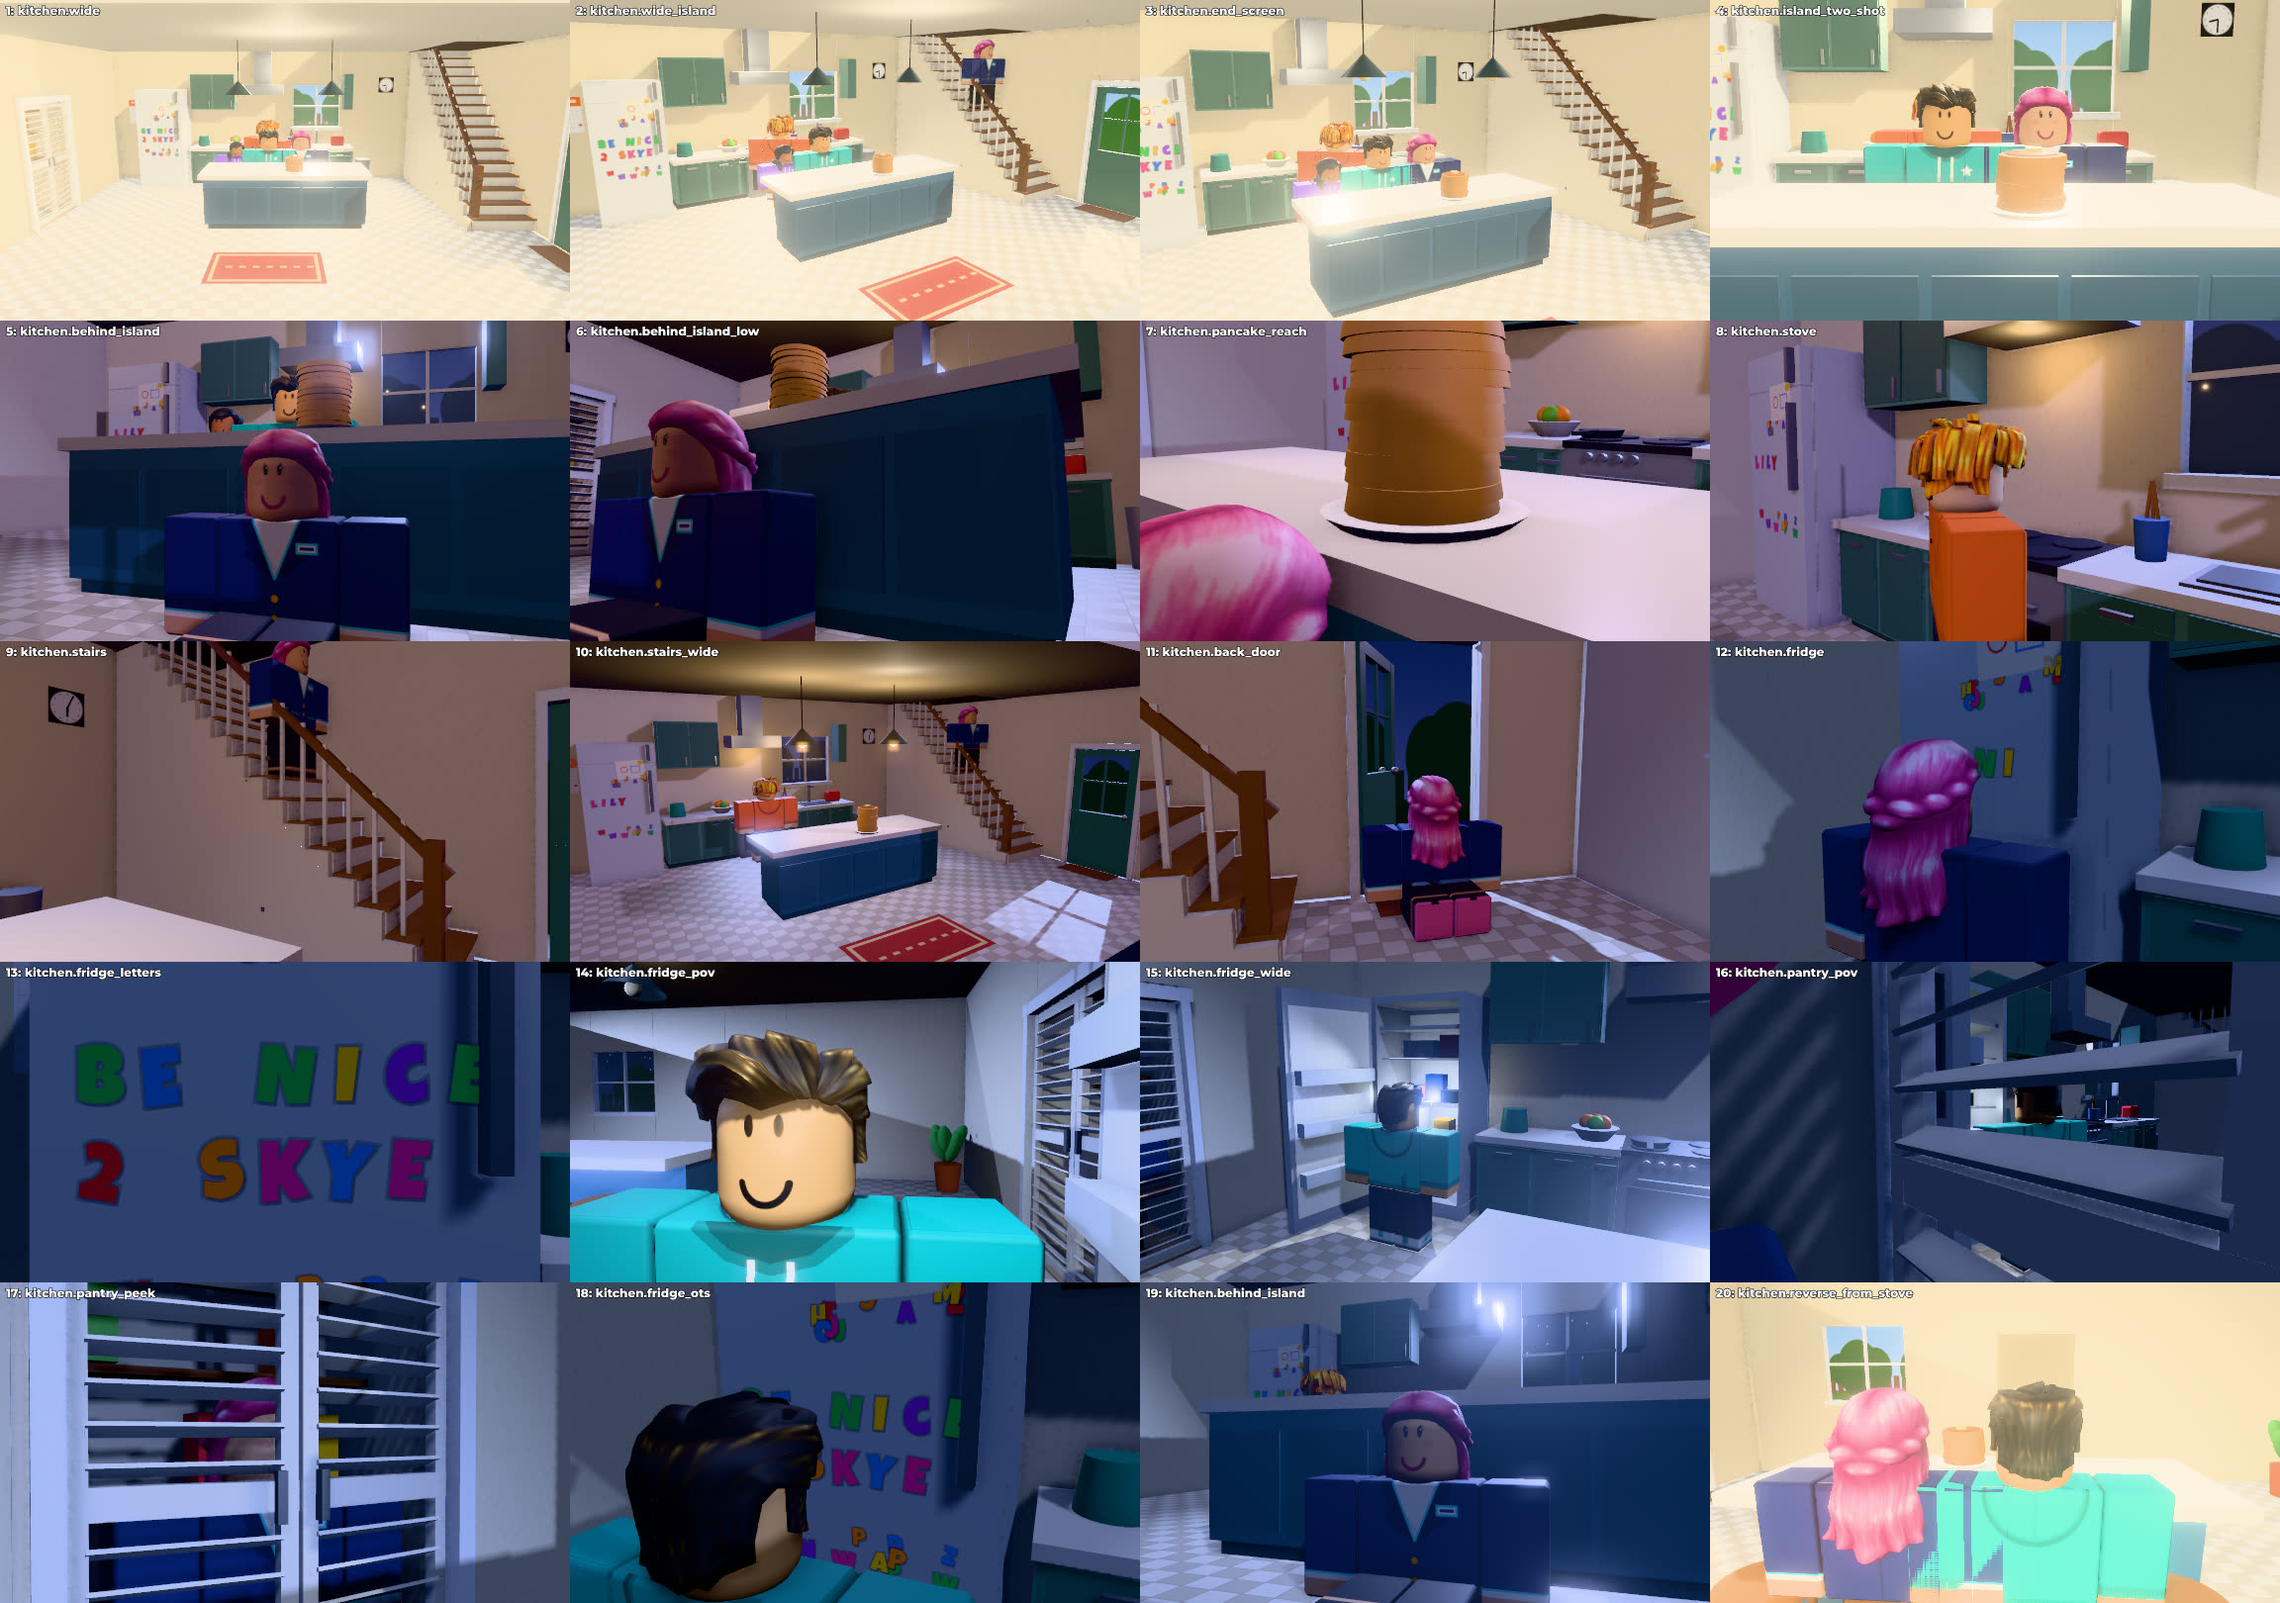
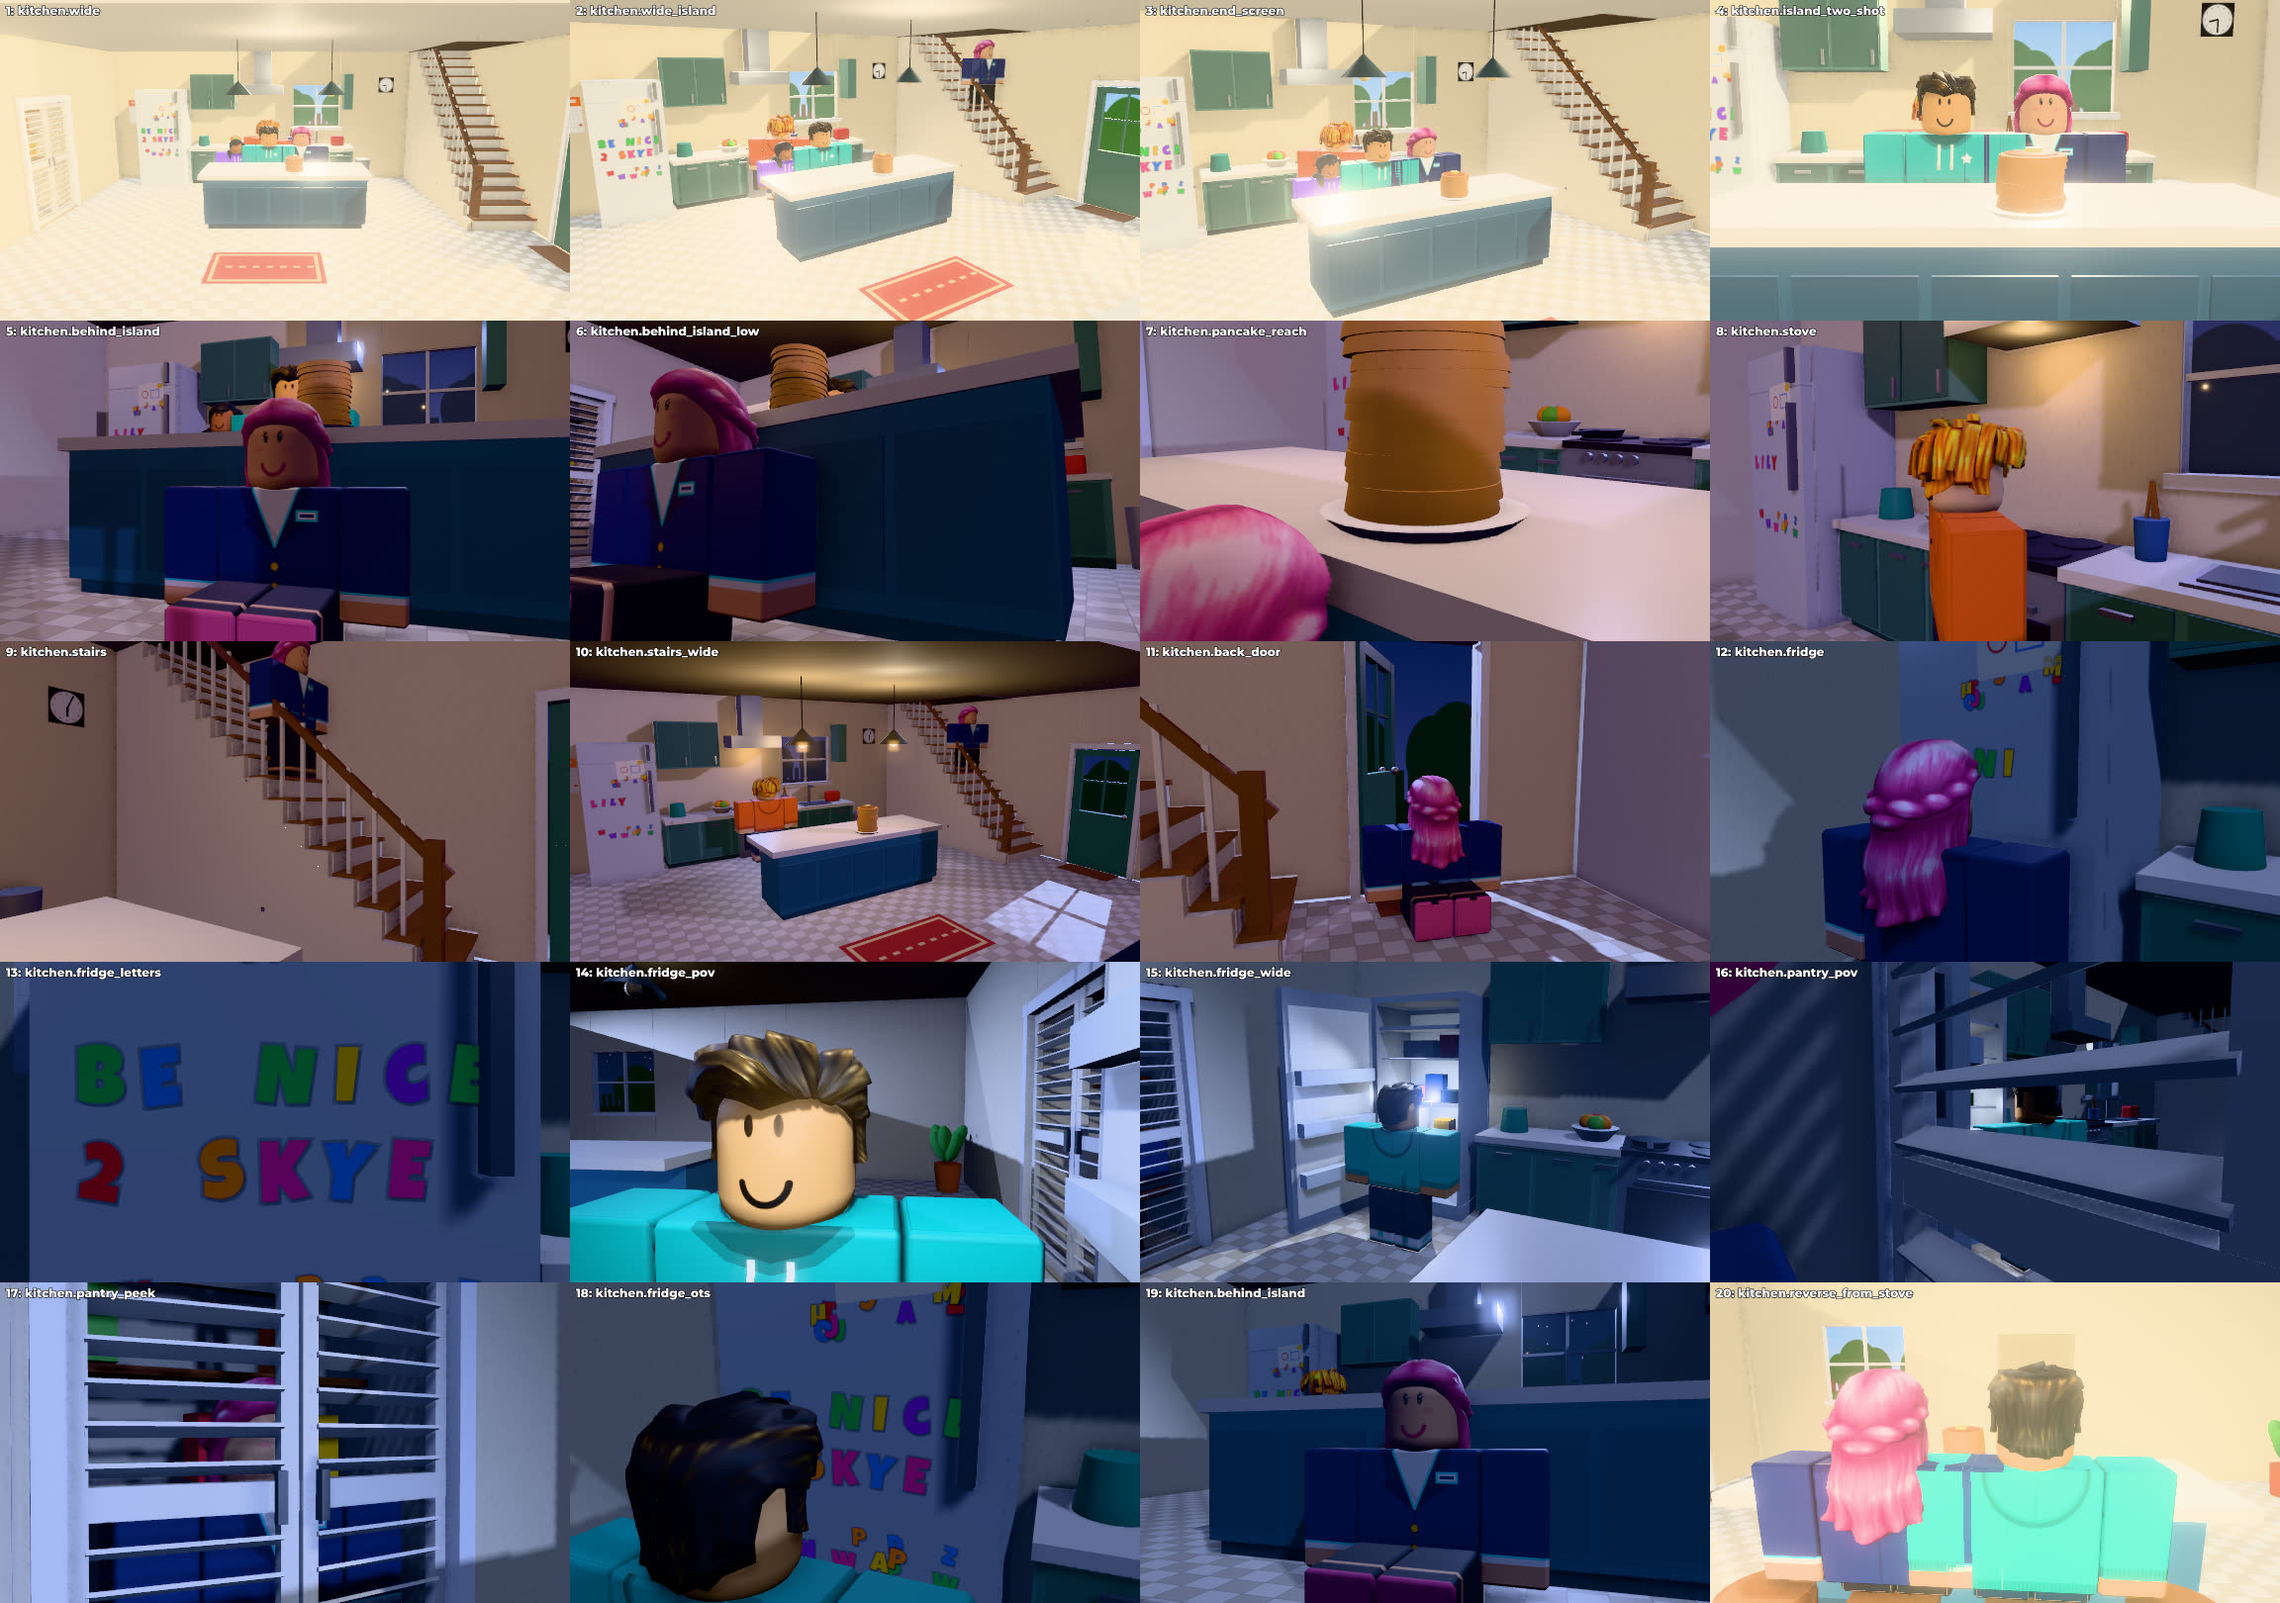
kit-sets-c: sit marks follow kit-cast seatY, walls/slats noCamBlock for setCam, safe proxy lights, matte island top

diff --git a/roblox-shorts-studio/projects/i-secretly-lived-in-my-enemys-house/web/kit/sets/kitchen.js b/roblox-shorts-studio/projects/i-secretly-lived-in-my-enemys-house/web/kit/sets/kitchen.js
@@ -12,7 +12,7 @@ import { THREE, V, std, glow, box, rbox, cyl, picture, fontText, floorTexture, w
 
 export const OFFSET = V(900, 0, 0);
 const H = 12;                         // ceiling
-const ISLAND_TOP = 3.6, STOOL_TOP = 2.4, COUNTER_TOP = 3.4;
+const ISLAND_TOP = 3.6, STOOL_TOP = 2.2, COUNTER_TOP = 3.4;
 // stairs: 16 steps, rise 0.75, run 0.8; step i (1..16) top at y 0.75 i over z 2.0-0.8 i .. 2.0-0.8 (i-1); x 12..16
 const STEP_RISE = 0.75, STEP_RUN = 0.8, STAIR_Z0 = 2.0, STAIR_X = 14;
 export function stairFootY(z) { const i = Math.ceil((STAIR_Z0 - z) / STEP_RUN); return Math.max(0, Math.min(16, i)) * STEP_RISE; }
@@ -30,7 +30,7 @@ export function build(scene) {
   const tileM = std('#ffffff', { map: floorTexture('tile', [6, 5]), roughness: 0.55 });
   const cabM = std('#6f9a8d', { roughness: 0.55 });        // sage cabinets
   const cabDark = std('#557a6f', { roughness: 0.55 });
-  const topM = std('#efeae2', { roughness: 0.3 });           // light stone counter top
+  const topM = std('#efeae2', { roughness: 0.6 });           // light stone counter top
   const woodM = std('#a8723f', { roughness: 0.6 });
   const woodDark = std('#7a4f2a', { roughness: 0.65 });
   const steelM = std('#c9ced4', { roughness: 0.3, metalness: 0.6 });
@@ -89,7 +89,7 @@ export function build(scene) {
     day: outsideTex('#7cc0ff', '#dff1ff', garden(false)),
   };
   const outM = new THREE.MeshBasicMaterial({ map: OUT.night, fog: false });
-  const outPlane = (w, h, x, y, z, ry) => { const p = new THREE.Mesh(new THREE.PlaneGeometry(w, h), outM); p.position.set(x, y, z); p.rotation.y = ry; group.add(p); return p; };
+  const outPlane = (w, h, x, y, z, ry) => { const p = new THREE.Mesh(new THREE.PlaneGeometry(w, h), outM); p.userData.noCamBlock = true; p.position.set(x, y, z); p.rotation.y = ry; group.add(p); return p; };
   outPlane(14, 9, 3, 7, -15, 0);                  // behind the sink window
   outPlane(16, 12, 22, 5, 6, -Math.PI / 2);       // behind the back door
   front.add(outPlane(14, 9, 24.5, 7, 3.75, Math.PI));   // behind the front window (hides with the front wall)
@@ -307,7 +307,7 @@ export function build(scene) {
     const d = new THREE.Group(); d.position.z = dz; piv.add(d);
     box(0.18, 7.9, 0.22, slatM, 0, 4.0, -1.13, d); box(0.18, 7.9, 0.22, slatM, 0, 4.0, 1.13, d);
     box(0.18, 0.3, 2.5, slatM, 0, 0.2, 0, d); box(0.18, 0.3, 2.5, slatM, 0, 7.8, 0, d); box(0.18, 0.35, 2.5, slatM, 0, 4.0, 0, d);
-    for (let y = 0.55; y < 7.6; y += 0.42) { if (Math.abs(y - 4.0) < 0.3) continue; const s = box(0.05, 0.3, 2.1, slatM, 0, y, 0, d); s.rotation.z = -1.15; }
+    for (let y = 0.55; y < 7.6; y += 0.42) { if (Math.abs(y - 4.0) < 0.3) continue; const s = box(0.05, 0.3, 2.1, slatM, 0, y, 0, d); s.rotation.z = -1.15; s.userData.noCamBlock = true; }
     box(0.12, 0.6, 0.12, handleM, 0.15, 4.0, side < 0 ? 1.0 : -1.0, d);
     pantryDoors.push({ piv, side });
   }
@@ -382,7 +382,7 @@ export function build(scene) {
 
   // ---------------------------------------------------------------- marks (heading: forward = (sin h, 0, cos h))
   const PI = Math.PI;
-  const sit = (x, z, h = 0) => M(x, STOOL_TOP - 2, z, h, { sit: true, seatTop: STOOL_TOP + OFFSET.y });
+  const sit = (x, z, h = 0) => M(x, STOOL_TOP - 1.5, z, h, { sit: true, seatTop: STOOL_TOP + OFFSET.y });
   const marks = {
     fridge: M(-11, 0, -7.4, PI, { note: 'facing the fridge door (letters), arm length from it' }),
     fridge_open: M(-10.2, 0, -6.6, PI, { note: 'in the open fridge light, facing in; the door swings to his left' }),

diff --git a/roblox-shorts-studio/projects/i-secretly-lived-in-my-enemys-house/web/kit/sets/common_c.js b/roblox-shorts-studio/projects/i-secretly-lived-in-my-enemys-house/web/kit/sets/common_c.js
@@ -100,17 +100,19 @@ function registry(scene, margin = 0.4) {
   }
   return reg;
 }
-export function autoHideWalls(scene, walls) { registry(scene).walls.push(...walls); }
+// Walls never block the kit cameras' clearShot (they hide whenever the camera is outside them).
+export function autoHideWalls(scene, walls) { for (const w of walls) w.obj.traverse((o) => { o.userData.noCamBlock = true; }); registry(scene).walls.push(...walls); }
 // Run fn(camera) right before every render of the scene (after all of update()).
 export function onSceneRender(scene, fn) { registry(scene).fns.push(fn); }
 
 // Practicals for K.applyLight / K.setPractical (lighting.js): each entry in set.lights is a proxy light (never added to
 // the scene) whose intensity the kit switches (0..1+); the set multiplies its real lights by it right before each
 // render, together with its own state (e.g. the fridge light only shines while the door is open). A proxy nobody has
-// switched (intensity NaN) uses the set's time-of-day default.
+// switched (intensity -1) uses the set's time-of-day default.
 // The proxy is a black, zero-range light added to the set group so render.mjs's frame fingerprint sees its level.
-export function proxyLight(parent) { const p = new THREE.PointLight('#000000', NaN, 0.01); p.userData.base = 1; p.userData.proxy = true; if (parent) parent.add(p); return p; }
-export function proxyLevel(p, fallback) { return Number.isNaN(p.intensity) ? fallback : (p.visible === false ? 0 : p.intensity); }
+// Untouched = intensity -1 and hidden (a hidden light never reaches the shader).
+export function proxyLight(parent) { const p = new THREE.PointLight('#000000', -1, 0.01); p.visible = false; p.userData.base = 1; p.userData.proxy = true; if (parent) parent.add(p); return p; }
+export function proxyLevel(p, fallback) { return p.intensity < 0 ? fallback : (p.visible === false ? 0 : p.intensity); }
 
 // Marks / cams in world space from set-local numbers.
 export function markMaker(offset) {
@@ -126,5 +128,5 @@ export function useCam(camera, c) {
 // A practical light with a base intensity; set via setPractical(light, level 0..1).
 export function practical(light, base) { light.userData.base = base; light.userData.practical = true; light.intensity = base; return light; }
 export function setPractical(light, level) { light.intensity = light.userData.base * level; light.visible = level > 0; }
-// Sitting: hip at the seat top, so the actor's root y = seatTop - 2 * actorScale (R6 hip pivot is 2 studs up).
-export const SIT_ROOT = (seatTop, scale = 1) => seatTop - 2 * scale;
+// Sitting (kit-cast seatY): root y = seatTop - 1.5 * actorScale (thighs horizontal on the seat).
+export const SIT_ROOT = (seatTop, scale = 1) => seatTop - 1.5 * scale;

diff --git a/roblox-shorts-studio/projects/i-secretly-lived-in-my-enemys-house/web/kit/sets/classroom.js b/roblox-shorts-studio/projects/i-secretly-lived-in-my-enemys-house/web/kit/sets/classroom.js
@@ -9,7 +9,7 @@ import { THREE, V, std, glow, box, rbox, cyl, picture, fontText, floorTexture, w
   autoHideWalls, markMaker, camMaker, practical, setPractical, canvasTexture, rng } from './common_c.js';
 
 export const OFFSET = V(1200, 0, 0);
-const H = 13, DESK_TOP = 3.1, SEAT_TOP = 2.0;
+const H = 13, DESK_TOP = 3.1, SEAT_TOP = 1.7;
 export const COLS = [-13, -5, 3, 11], ROWS = [-7, -1, 5, 11];
 const CHAIR_DZ = 1.9;                 // the seated root is this far behind (+z) the desk centre
 
@@ -121,7 +121,6 @@ export function build(scene) {
   function deskUnit(x, z, colorIdx) {
     const d = new THREE.Group(); d.position.set(x, 0, z); group.add(d);
     box(3.6, 0.22, 2.3, deskTopM, 0, DESK_TOP - 0.11, 0, d);
-    box(3.3, 0.12, 1.8, metalM, 0, 2.62, -0.15, d);               // book tray (front part only, legs pass behind it)
     box(3.3, 0.35, 0.08, metalM, 0, 2.8, -1.05, d);
     for (const sx of [-1.6, 1.6]) for (const sz of [-1.0, 1.0]) cyl(0.07, 0.07, DESK_TOP - 0.2, metalM, sx, (DESK_TOP - 0.2) / 2, sz, d, 8);
     // chair behind the desk (seated root at z + CHAIR_DZ)
@@ -166,7 +165,7 @@ export function build(scene) {
   group.userData.walls = walls.map((w) => w.obj);
 
   // ---------------------------------------------------------------- marks
-  const sit = (key) => { const t = desks[key].top.clone().sub(OFFSET); return M(t.x, SEAT_TOP - 2, t.z + CHAIR_DZ, PI, { sit: true, seatTop: SEAT_TOP, desk: key }); };
+  const sit = (key) => { const t = desks[key].top.clone().sub(OFFSET); return M(t.x, SEAT_TOP - 1.5, t.z + CHAIR_DZ, PI, { sit: true, seatTop: SEAT_TOP, desk: key }); };
   const marks = {};
   ROWS.forEach((z, ri) => COLS.forEach((x, ci) => { marks[`desk_r${ri + 1}c${ci + 1}`] = sit(`r${ri + 1}c${ci + 1}`); }));
   Object.assign(marks, {

diff --git a/roblox-shorts-studio/projects/i-secretly-lived-in-my-enemys-house/production/previews/kit-sets-c/set_preview.js b/roblox-shorts-studio/projects/i-secretly-lived-in-my-enemys-house/production/previews/kit-sets-c/set_preview.js
@@ -94,8 +94,8 @@ export function update(t, stage) {
     const a = actors[k], m = set.marks[markName]; if (!m) throw new Error(`no mark ${setId}.${markName}`);
     a.root.visible = true; pose(a, kind || (m.sit ? 'sit' : m.crouch ? 'crouch' : ''));
     a.root.position.copy(m.pos); a.root.rotation.set(0, m.heading, 0);
-    if (m.sit) a.root.position.y = m.seatTop - 2 * a.scale;
-    if (m.floorSit) { pose(a, 'sit'); a.root.position.y = m.pos.y - 2 * a.scale; }
+    if (m.sit) a.root.position.y = m.seatTop - 1.5 * a.scale;
+    if (m.floorSit) { pose(a, 'sit'); a.root.position.y = m.pos.y - 1.5 * a.scale; }
     else if (kind === 'crouch' || m.crouch || m.crawl) a.root.position.y = m.pos.y - 1.5 * a.scale;
   }
   const c = set.cams[camName]; if (!c) throw new Error(`no cam ${setId}.${camName}`);

diff --git a/roblox-shorts-studio/projects/i-secretly-lived-in-my-enemys-house/web/kit/README.md b/roblox-shorts-studio/projects/i-secretly-lived-in-my-enemys-house/web/kit/README.md
@@ -232,8 +232,8 @@ seams clean), A/V difference 0.000 s, -14.1 LUFS / -1.0 dBTP.
 ## sets/kitchen.js, classroom.js, exterior.js (kit-sets-c)
 
 All three: `build(scene)` → `{ id, group, marks, cams, lights, setState, state, anchors, walls }`. Marks are world
-`{ pos, heading, note? }` (forward = (sin h, 0, cos h)); sit marks also carry `sit: true, seatTop` (pos.y = seatTop − 2,
-i.e. the root for a scale-1 actor whose hip sits on the seat; for Lily use `seatTop - 2 * 0.78`). Cams are `{ pos, target, fov, note? }`.
+`{ pos, heading, note? }` (forward = (sin h, 0, cos h)); sit marks also carry `sit: true, seatTop` (pos.y = seatTop − 1.5, kit-cast `seatY`,
+i.e. the root for a scale-1 actor whose hip sits on the seat; for Lily use `K.seatY(lily, seatTop)`). Cams are `{ pos, target, fov, note? }`.
 Walls and ceilings hide by themselves whenever the camera is outside them (scene.onBeforeRender), so any camera can look
 in; force one with `setState({ walls: { wall_front: false } })`. `setState({ chapter: N })` sets that chapter's state and
 ignores chapters that don't use the set (so `K.setState` broadcast is safe). Shared helpers: `sets/common_c.js`.
@@ -278,7 +278,7 @@ family faces the camera, a hider sits on the floor on the camera side, hidden fr
 ### Classroom (1200,0,0) — Ch1, Ch2, Ch4
 Board on the front wall (students face −z, heading π); windows along the left wall; door front-right; cubbies and the
 HALLOWEEN DANCE poster on the back wall. Desks 4×4: columns c1..c4 at x −13, −5, 3, 11 (c1 by the windows), rows r1..r4
-(r1 nearest the board). Skye r2c1, Max r3c2 (diagonally behind, on her right). Seat top 2.0, desk top 3.1.
+(r1 nearest the board). Skye r2c1, Max r3c2 (diagonally behind, on her right). Seat top 1.7, desk top 3.1.
 - **States:** `time` `lunch|morning` (clock 12:15 / 8:25, extras' lunches on their desks at lunch; `lunch: false` hides
   them), `board` (text, `\n` rows; per-chapter defaults), `chapter` 1/2/4, `practicals: { fillL, fillR, windowSun }`.
   `lights` is empty (the room lights are always on; school_day does the rest).
